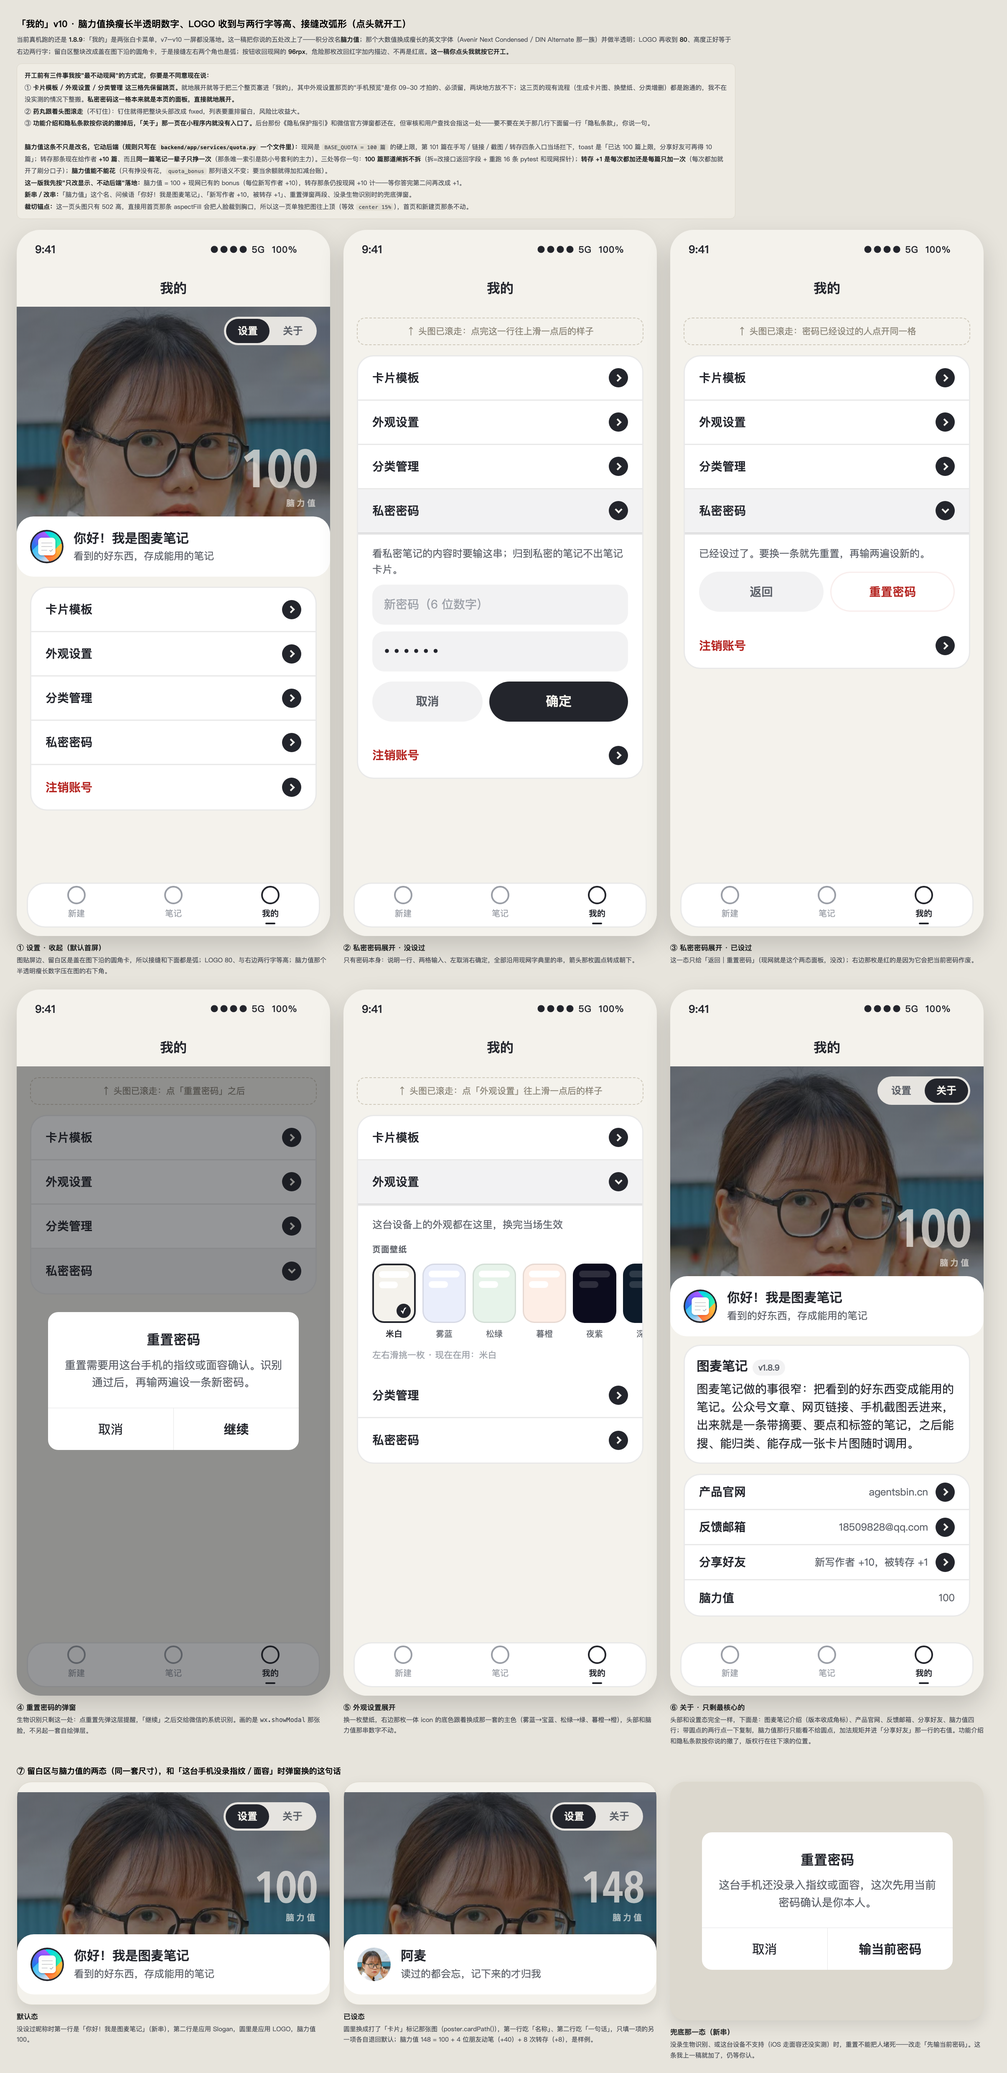
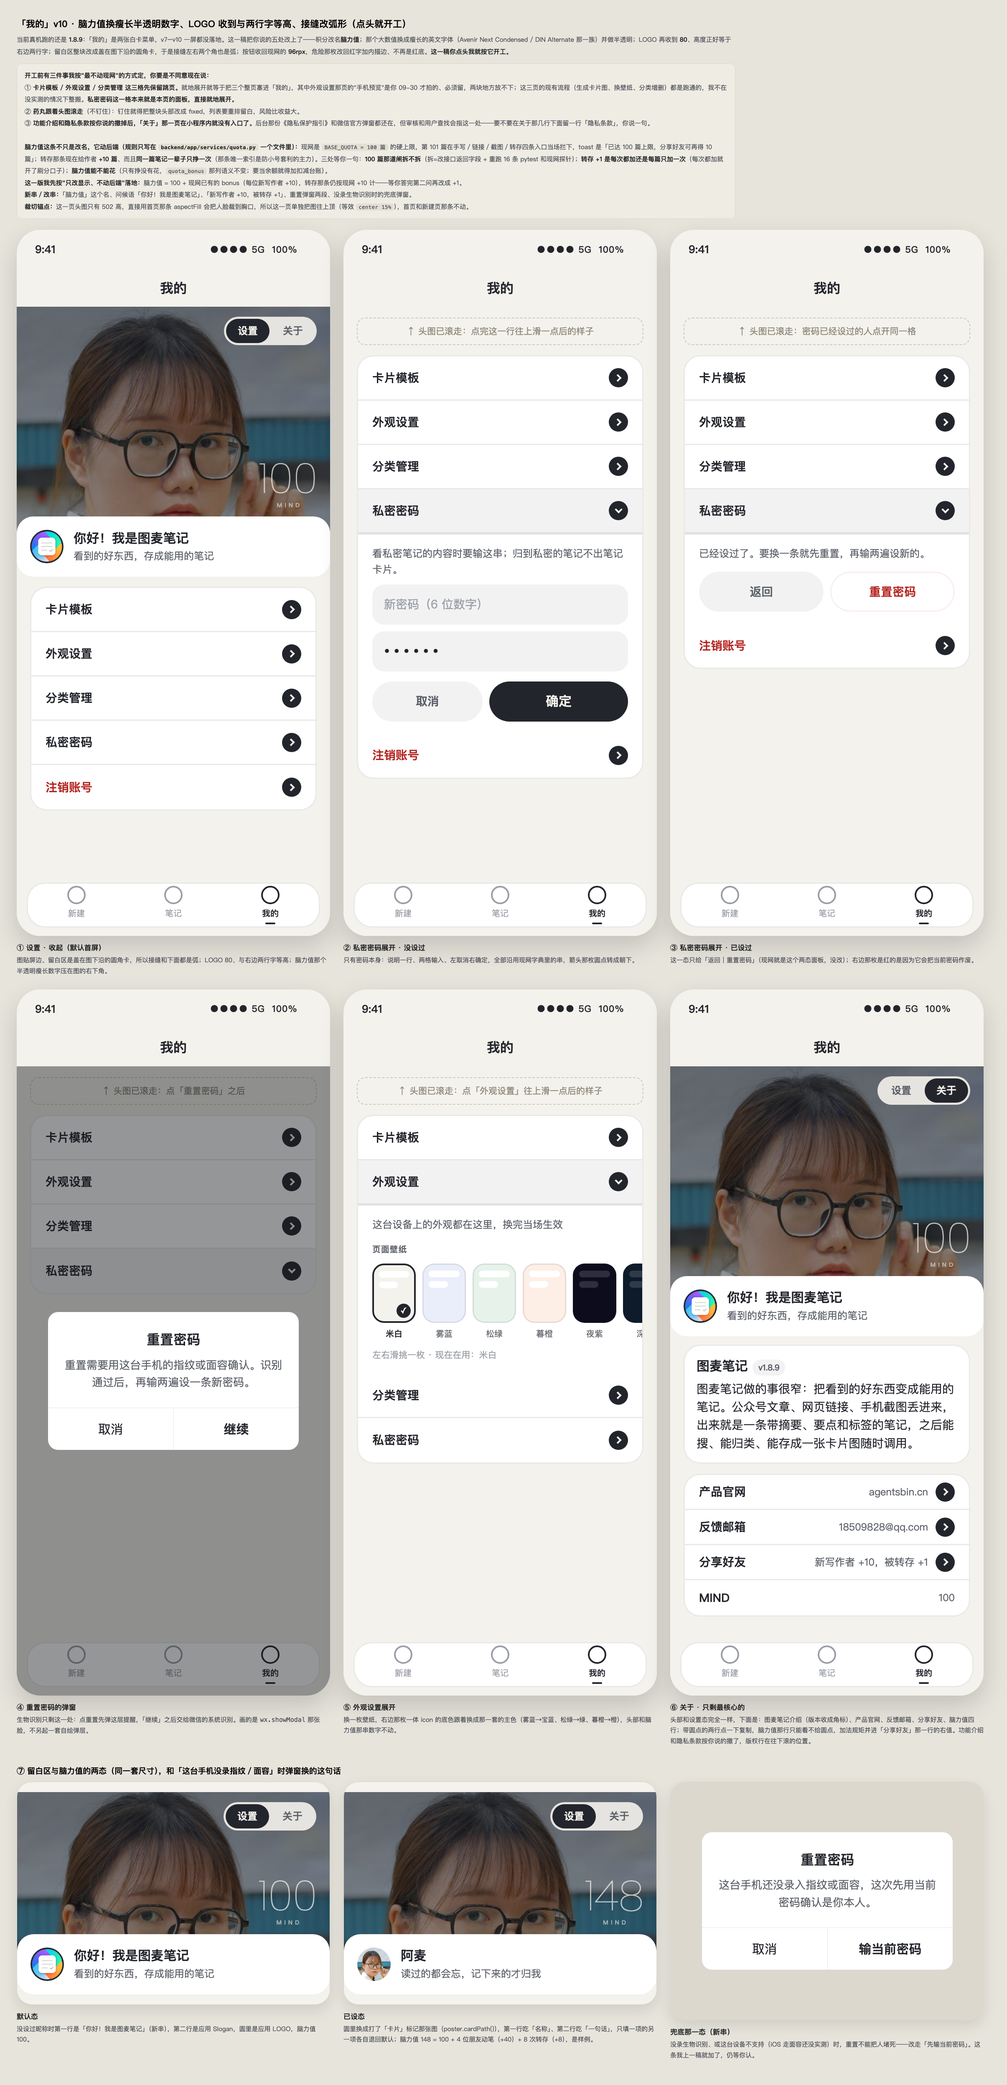
「我的」改版落地 1.9.0：Poppins Thin 的 MIND、留白卡贴屏边、40 条真跑全过
站长点了 G · Poppins Thin，数字收 80%（126→100）、英文字跟着收到最小一档字阶 18
并与数字居中对齐；标签按"英文显示"定成 MIND（中英文字典同一串）。字体只裁 0-9
base64 内嵌进 me.wxss，1.9KB，不占域名。

真跑量出两条坑并修掉：① .container 自带 24rpx 左右内边距，头部要贴屏边得自己顶出去，
而 margin 用 calc(0px - var(--sp-3)) 会让这份编译把整条 .head 规则丢掉、页面直接不渲染
（症状是 selectorQuery 全量 null），改回写死 -24rpx 并由尺子钉住"左右贴屏边"；
② 头图这一页不能沿用首页的 aspectFill，502 高的盒子会把人像裁到胸口，改成按图片真实
尺寸算锚点（1448 高、往上顶 136）。

新增 docs/工具/验-我的页改版-真跑.js 40 条：几何、字体与锚点、药丸两态、就地展开、
面板两态、关于四行、昵称替换。作废两条旧判据（行右边"未设置"文字、浮层面板+遮罩），
改判据而不是改代码迁就旧尺子；尺子自己负责 setup/teardown（进页前清 storage 造的昵称、
收尾原样还回去），否则上一轮跑崩会把下一轮的默认态判成不过。PRD 补 §8.80。

diff --git a/docs/工具/验-我的页改版-真跑.js b/docs/工具/验-我的页改版-真跑.js
@@ -1,0 +1,216 @@
+/** 「我的」改版这一屏的真跑尺子（v10 口径 + 站长 10-01 那五条）
+ *
+ *  跑法：先 `cli auto --project .../miniprogram --auto-port 9431`，等约 30 秒，再
+ *        NODE_PATH=/tmp/mpaauto/node_modules node docs/工具/验-我的页改版-真跑.js
+ *
+ *  作废的两条旧判据（别再改代码去迁就它们）：
+ *   ① 「私密密码那一行右边写着设没设」——这一版行右边只剩一枚一体 icon，状态不再用文字说；
+ *   ② 「点那一行浮出密码面板（.pwd-mask + 固定层 .pwd-sheet）」——面板改成就地展开，
+ *      浮层和遮罩整两层撤掉，这里改成钉"展开的内容长在列表里面"。
+ *
+ *  evaluate 跑在逻辑层，那里没有 document/window，所以计算样式一律走 element.style()。
+ */
+const automator = require('miniprogram-automator')
+const path = require('path')
+const fs = require('fs')
+
+const OUT = path.resolve(__dirname, '../design/我的-改版-实测')
+const APORT = 'ws://localhost:9431'
+const sleep = (ms) => new Promise((r) => setTimeout(r, ms))
+const bad = []
+const ck = (name, ok, got) => {
+  console.log(`${ok ? '✓' : '✗'} ${name}${got === undefined || got === '' ? '' : ' → ' + got}`)
+  if (!ok) bad.push(name)
+}
+const toRpx = (px, windowWidth) => (px * 750) / windowWidth
+
+const measure = (mp) => mp.evaluate(() => new Promise((resolve) => {
+  const q = wx.createSelectorQuery()
+  q.select('.head-band').boundingClientRect()
+  q.select('.sheet').boundingClientRect()
+  q.select('.sheet-logo').boundingClientRect()
+  q.select('.sheet-text').boundingClientRect()
+  q.select('.score').boundingClientRect()
+  q.select('.score-n').boundingClientRect()
+  q.select('.score-l').boundingClientRect()
+  q.select('.pill').boundingClientRect()
+  q.selectAll('.seg').boundingClientRect()
+  q.selectAll('.menu-item').boundingClientRect()
+  q.selectAll('.ico').boundingClientRect()
+  q.selectAll('.pwd-input').boundingClientRect()
+  q.selectAll('.pwd-btn').boundingClientRect()
+  q.select('.pwd-inline').boundingClientRect()
+  q.select('.menu-group').boundingClientRect()
+  q.select('.about-lead').boundingClientRect()
+  q.exec((res) => resolve({
+    band: res[0], sheet: res[1], logo: res[2], text: res[3],
+    score: res[4], num: res[5], lab: res[6], pill: res[7],
+    segs: res[8] || [], items: res[9] || [], icos: res[10] || [],
+    inputs: res[11] || [], btns: res[12] || [], inline: res[13],
+    group: res[14], aboutLead: res[15],
+    windowWidth: wx.getWindowInfo().windowWidth,
+  }))
+}))
+
+const styleOf = async (page, sel, props) => {
+  const el = await page.$(sel)
+  if (!el) return {}
+  const out = {}
+  for (const k of props) out[k] = await el.style(k)
+  return out
+}
+
+// 昵称/口号走的是 poster.readProfile()，所以往 storage 写真值再重进本页才是真链路。
+// 但这一页默认态那几条判据吃的是"没填过"，所以进页前先把这两个字段清掉、
+// 收尾再原样还回去——上一轮跑到一半崩了留下 '阿麦'，下一轮就会把默认态判成不过。
+const readProfileRaw = (mp) => mp.evaluate(() => JSON.stringify(wx.getStorageSync('poster_profile') || {}))
+const seedProfile = (mp, patch) => mp.evaluate((p) => {
+  wx.setStorageSync('poster_profile', Object.assign({}, wx.getStorageSync('poster_profile') || {}, p))
+  return JSON.stringify(wx.getStorageSync('poster_profile'))
+}, patch)
+const putProfile = (mp, json) => mp.evaluate((j) => {
+  wx.setStorageSync('poster_profile', JSON.parse(j))
+  return true
+}, json)
+
+const gotoMe = async (mp) => {
+  for (let i = 0; i < 5; i++) {
+    try {
+      await mp.switchTab('/pages/me/me')
+      await sleep(3000)
+      return await mp.currentPage()
+    } catch (e) { await sleep(2500) }
+  }
+  throw new Error('进不了 /pages/me/me')
+}
+
+;(async () => {
+  if (!fs.existsSync(OUT)) fs.mkdirSync(OUT, { recursive: true })
+  let mp
+  for (let i = 0; i < 6; i++) {
+    try { mp = await automator.connect({ wsEndpoint: APORT }); break }
+    catch (e) { await sleep(2000) }
+  }
+  if (!mp) { console.log('✗ 连不上 9431，先跑 cli auto'); process.exit(1) }
+
+  let page = await gotoMe(mp)
+  const originalProfile = await readProfileRaw(mp)
+  await seedProfile(mp, { name: '', slogan: '' })
+  await mp.switchTab('/pages/index/index')
+  await sleep(1200)
+  page = await gotoMe(mp)
+
+  /* ---------- ① 头部两块：底图 + 盖在它下沿的圆角留白卡 ---------- */
+  let m = await measure(mp)
+  const W = m.windowWidth
+  ck('底图这块盒子高 542（可见 502 + 被卡盖住 40）', Math.abs(toRpx(m.band.height, W) - 542) <= 3, toRpx(m.band.height, W).toFixed(1))
+  const overlap = m.band.bottom - m.sheet.top
+  ck('留白卡往上盖住底图 40 → 接缝左右两角是弧', Math.abs(toRpx(overlap, W) - 40) <= 3, toRpx(overlap, W).toFixed(1))
+  ck('留白卡左右贴屏边（不内缩）', m.sheet.left <= 1 && Math.abs(m.sheet.right - W) <= 1, `${m.sheet.left}/${m.sheet.right}`)
+  const sheetStyle = await styleOf(page, '.sheet', ['border-top-left-radius', 'background-color'])
+  ck('留白卡四角圆角 40', Math.abs(toRpx(parseFloat(sheetStyle['border-top-left-radius']), W) - 40) <= 2,
+    sheetStyle['border-top-left-radius'])
+  ck('留白卡底色不透明（深色壁纸下不会透出照片）', !/rgba/.test(sheetStyle['background-color'] || ''), sheetStyle['background-color'])
+
+  /* ---------- ② 圆 LOGO 80、整枚在留白区里、与右边两行字等高 ---------- */
+  ck('圆 LOGO 是 80 见方', Math.abs(toRpx(m.logo.width, W) - 80) <= 2 && Math.abs(toRpx(m.logo.height, W) - 80) <= 2,
+    `${toRpx(m.logo.width, W).toFixed(0)}×${toRpx(m.logo.height, W).toFixed(0)}`)
+  ck('LOGO 不再压着底图（整枚在留白卡里）', m.logo.top >= m.sheet.top - 1, `${m.logo.top} vs ${m.sheet.top}`)
+  ck('LOGO 高度 = 右边两行字的高度（±4）', Math.abs(toRpx(m.logo.height, W) - toRpx(m.text.height, W)) <= 4,
+    toRpx(m.text.height, W).toFixed(0))
+
+  /* ---------- ③ MIND 那个大数字：Poppins Thin、收 80%、英文字居中 ---------- */
+  const numStyle = await styleOf(page, '.score-n', ['font-family', 'font-size', 'font-weight', 'color'])
+  const labStyle = await styleOf(page, '.score-l', ['font-size', 'text-align', 'letter-spacing'])
+  ck('数字用内嵌的 WtsjMind（Poppins Thin 子集）', /WtsjMind/.test(numStyle['font-family'] || ''), numStyle['font-family'])
+  ck('数字字号收到 100（上一版 126 的八折）', Math.abs(toRpx(parseFloat(numStyle['font-size']), W) - 100) <= 2, numStyle['font-size'])
+  ck('数字是 100 号字重（Thin）', parseFloat(numStyle['font-weight']) <= 100, numStyle['font-weight'])
+  ck('数字保持半透明', /rgba\(242,\s*239,\s*233,\s*0?\.7/.test(numStyle.color || ''), numStyle.color)
+  ck('英文字收到最小一档字阶 18', Math.abs(toRpx(parseFloat(labStyle['font-size']), W) - 18) <= 1, labStyle['font-size'])
+  ck('英文字改成居中对齐', labStyle['text-align'] === 'center', labStyle['text-align'])
+  const cNum = m.num.left + m.num.width / 2
+  const cLab = m.lab.left + m.lab.width / 2
+  ck('英文字真的对到数字中间（±3rpx）', Math.abs(toRpx(cLab - cNum, W)) <= 3, `Δ${toRpx(cLab - cNum, W).toFixed(1)}`)
+  ck('数字整块没被留白卡盖住', m.score.bottom <= m.sheet.top + 2, `${m.score.bottom} vs ${m.sheet.top}`)
+  ck('数字在底图右下角以内', m.score.right <= m.band.right + 1 && m.score.bottom <= m.band.bottom + 1)
+
+  /* ---------- ④ 药丸：默认设置，切关于 ---------- */
+  let d = await page.data()
+  ck('药丸两枚：设置 / 关于', m.segs.length === 2, m.segs.length)
+  ck('药丸钉在底图右上（在 band 里）', m.pill.top >= m.band.top && m.pill.right <= m.band.right + 1)
+  ck('默认停在「设置」', d.tab === 'set', d.tab)
+  ck('没设过昵称时第一行是问候语', d.nameText === '你好！我是图麦笔记', d.nameText)
+  ck('第二行是应用 Slogan', d.sloganText === '看到的好东西，存成能用的笔记', d.sloganText)
+  ck('圆里是应用 LOGO（没设卡片头像时）', d.logoSrc === '/assets/logo.png', d.logoSrc)
+  ck('底图取的是首页那一个出口', /home-bg-portrait|USER_DATA_PATH/.test(d.bgSrc || ''), d.bgSrc)
+  ck('锚点算出来了：按宽铺满 1448 高、往上顶 136', /height:1448rpx/.test(d.imgStyle || '') && /top:-136rpx/.test(d.imgStyle || ''), d.imgStyle)
+  ck('数字来自服务端（base+bonus，不是界面写死）', /^\d+$/.test(String(d.scoreText || '')) && Number(d.scoreText) >= 100, d.scoreText)
+  ck('分享那行右值吃服务端 reward_each，单位不再写"篇"', /^\S+ \+\d+$/.test(String(d.shareValue || '')), d.shareValue)
+
+  /* ---------- ⑤ 设置那五条：一体 icon + 就地展开 ---------- */
+  const labels = []
+  for (const r of await page.$$('.menu-item')) labels.push((await r.text()).replace(/\s+/g, ''))
+  ck('设置态是五条：卡片模板/外观设置/分类管理/私密密码/注销账号',
+    labels.join('|') === '卡片模板|外观设置|分类管理|私密密码|注销账号', labels.join('|'))
+  ck('行高 106（不再是 118 那种大块头）', Math.abs(toRpx(m.items[0].height, W) - 106) <= 2, toRpx(m.items[0].height, W).toFixed(0))
+  ck('每行右边一枚 46 见方的圆点 icon', m.icos.length === 5 && Math.abs(toRpx(m.icos[0].width, W) - 46) <= 2,
+    `${m.icos.length}/${toRpx(m.icos[0].width, W).toFixed(0)}`)
+  ck('icon 是圆的（宽高相等）', Math.abs(m.icos[0].width - m.icos[0].height) <= 1)
+  ck('行里不再有"未设置"这类状态文字（旧判据作废）', !labels.some((x) => /未设置|密码已设置/.test(x)))
+
+  const iPwd = labels.findIndex((x) => x.indexOf('私密密码') === 0)
+  await (await (await page.$$('.menu-item'))[iPwd]).tap()
+  await sleep(1200)
+  d = await page.data()
+  m = await measure(mp)
+  ck('点那一行就地展开', d.pwdOpen === true && d.privateSet === true, `open=${d.pwdOpen} set=${d.privateSet}`)
+  ck('展开的内容长在列表里面，不是浮层',
+    !!m.inline && !!m.group && m.inline.top >= m.group.top && m.inline.bottom <= m.group.bottom + 1,
+    m.inline ? `${m.inline.top}~${m.inline.bottom} in ${m.group.top}~${m.group.bottom}` : '没有 .pwd-inline')
+  ck('这一版没有遮罩那一层', (await page.$$('.pwd-mask')).length === 0)
+  ck('已设过那一态不给输入格', m.inputs.length === 0, m.inputs.length)
+  const btnTexts = []
+  for (const b of await page.$$('.pwd-btn')) btnTexts.push(await b.text())
+  ck('已设过那一态一行两枚：返回 + 重置密码', btnTexts.join('|') === '返回|重置密码', btnTexts.join('|'))
+  ck('按钮高 96（与其他页面的 .pwd-btn 同值，没做成超大块）',
+    Math.abs(toRpx(m.btns[0].height, W) - 96) <= 2, toRpx(m.btns[0].height, W).toFixed(0))
+  const cvStyle = await styleOf(page, '.menu-item.open .ico .cv', ['transform'])
+  // rotate(45deg) 在计算样式里回的是 matrix(.707,.707,-.707,.707)，不是字面 45
+  const down = /matrix\(\s*0?\.707[^,]*,\s*0?\.707/.test(cvStyle.transform || '')
+  ck('展开那行的箭头转成朝下（rotate 45°，b 分量为正）', down, cvStyle.transform)
+  await mp.screenshot({ path: path.join(OUT, '01-设置-私密密码展开.png') })
+
+  /* ---------- ⑥ 关于：切过去之后内容直接长在头部下面 ---------- */
+  await (await (await page.$$('.seg'))[1]).tap()
+  await sleep(1200)
+  d = await page.data()
+  m = await measure(mp)
+  ck('切到关于', d.tab === 'about', d.tab)
+  ck('切走时展开着的面板收掉了', d.pwdOpen === false)
+  const aboutLabels = []
+  for (const r of await page.$$('.menu-item')) aboutLabels.push((await r.text()).replace(/\s+/g, ''))
+  // .text() 拿到的是一整行（标签 + 右值），所以按"以这几个字开头"判，不比全等
+  ck('关于只有四行：产品官网/反馈邮箱/分享好友/MIND',
+    aboutLabels.length === 4 && aboutLabels[0].indexOf('产品官网') === 0 &&
+    aboutLabels[1].indexOf('反馈邮箱') === 0 && aboutLabels[2].indexOf('分享好友') === 0 &&
+    aboutLabels[3].indexOf('MIND') === 0, aboutLabels.join('|'))
+  ck('脑力值那一行右边是服务端那个数', /MIND1\d\d/.test(aboutLabels[3] || ''), aboutLabels[3])
+  ck('介绍卡在最上面（紧跟留白卡，不分二级）', !!m.aboutLead && !!m.sheet && m.aboutLead.top <= m.sheet.bottom + 2)
+  ck('功能介绍和隐私条款不在这一页', !aboutLabels.some((x) => /功能|隐私/.test(x)))
+  await mp.screenshot({ path: path.join(OUT, '02-关于-四行.png') })
+
+  /* ---------- ⑦ 昵称/口号设过之后：头部换成用户的那两行 ---------- */
+  await seedProfile(mp, { name: '阿麦', slogan: '读过的都会忘，记下来的才归我' })
+  await mp.switchTab('/pages/index/index')
+  await sleep(1500)
+  page = await gotoMe(mp)
+  d = await page.data()
+  ck('第一行换成用户填的「名称」', d.nameText === '阿麦', d.nameText)
+  ck('第二行换成用户填的「一句话」', d.sloganText === '读过的都会忘，记下来的才归我', d.sloganText)
+  await mp.screenshot({ path: path.join(OUT, '03-头部-用户昵称与口号.png') })
+  await putProfile(mp, originalProfile)   // 复原：别把尺子造的昵称留在这台手机上
+
+  console.log(bad.length ? `\n✗ ${bad.length} 条不过：${bad.join('、')}` : '\n✓ 全过')
+  await mp.close()
+  process.exit(bad.length ? 1 : 0)
+})().catch((e) => { console.log('ERR', e && e.message); process.exit(1) })

diff --git a/docs/design/我的-脑力值与弧形接缝-v10-中文.html b/docs/design/我的-脑力值与弧形接缝-v10-中文.html
@@ -7,8 +7,8 @@
 /* ==================================================================
    v10 = v9 + 站长 10-01 凌晨这五条：
      ① 「积分」改名「脑力值」；
-     ② 那个大数值换英文字体（瘦长那一族：Avenir Next Condensed / DIN Alternate），
-        并改成半透明；
+     ② 大数值用 Poppins Thin 100（iPhone 时钟那种细圆长，只裁 0-9 内嵌 1.9KB），
+        半透明、比上一版收 8 成，下面那行英文字跟着缩小并与数字居中；
      ③ LOGO 再缩小，高度与右边两行文字一致（31×1.25 + 7 + 24×1.4 ≈ 80 → 圆 80）；
      ④ 留白区与底图之间那条缝，左右两个角要做成弧度（做法：图往下多铺 40，
         留白区整块用圆角卡盖在它上面，于是四个角都是弧、缝也是弧）；
@@ -66,12 +66,12 @@
   .seg.on{background:var(--ink);color:var(--paper)}
 
   /* ---------- ①② 脑力值：背景图右下角一个大数值 ---------- */
-  .score{position:absolute;right:30px;bottom:56px;z-index:4;text-align:right;
-    color:rgba(242,239,233,.72)}
-  .score b{display:block;font-family:var(--num);font-size:126px;font-weight:600;
-    letter-spacing:-2px;line-height:.82;font-variant-numeric:tabular-nums}
-  .score span{display:block;margin-top:10px;font-size:var(--fs-label);font-weight:700;
-    letter-spacing:5px;color:rgba(242,239,233,.66)}
[1 lines of base64/hex data omitted]
+  .score{position:absolute;right:30px;bottom:56px;z-index:4}
+  .score b{display:block;font-family:'WtsjMind','Poppins',sans-serif;font-size:100px;
+    font-weight:100;line-height:.86;color:rgba(242,239,233,.74)}
+  .score span{display:block;margin-top:10px;padding-left:6px;text-align:center;
+    font-size:var(--fs-micro);font-weight:700;letter-spacing:6px;color:rgba(242,239,233,.62)}
 
   /* ---------- ③ 留白区：圆 80 = 右边两行字的高度，缝的左右两角是弧 ---------- */
   .ident{position:relative;margin-top:-40px;height:144px;padding:0 32px;display:flex;
@@ -166,8 +166,8 @@
   .cmp{width:750px;background:var(--paper);border:1px solid #ddd8cc;border-radius:36px;overflow:hidden;
     box-shadow:0 14px 34px rgba(0,0,0,.10);padding:24px 0}
   .cmp .band{height:380px}
-  .cmp .score b{font-size:104px}
-  .cmp .score{bottom:64px}
+  .cmp .score b{font-size:100px}
+  .cmp .score{bottom:56px}
 </style>
 </head>
 <body>
@@ -199,7 +199,7 @@
       <div class="head-card">
         <div class="band"><div class="scrim"></div>
           <div class="pill"><div class="seg on">设置</div><div class="seg">关于</div></div>
-          <div class="score"><b>100</b><span>脑力值</span></div>
+          <div class="score"><b>100</b><span>MIND</span></div>
         </div>
         <div class="ident">
           <div class="av brand"></div>
@@ -360,7 +360,7 @@
       <div class="head-card">
         <div class="band"><div class="scrim"></div>
           <div class="pill"><div class="seg">设置</div><div class="seg on">关于</div></div>
-          <div class="score"><b>100</b><span>脑力值</span></div>
+          <div class="score"><b>100</b><span>MIND</span></div>
         </div>
         <div class="ident">
           <div class="av brand"></div>
@@ -378,7 +378,7 @@
         <div class="r"><span class="rn">产品官网</span><span class="rs"><span class="rv">agentsbin.cn</span><span class="ico"><i></i></span></span></div>
         <div class="r"><span class="rn">反馈邮箱</span><span class="rs"><span class="rv">18509828@qq.com</span><span class="ico"><i></i></span></span></div>
         <div class="r"><span class="rn">分享好友</span><span class="rs"><span class="rv">新写作者 +10，被转存 +1</span><span class="ico"><i></i></span></span></div>
-        <div class="r"><span class="rn">脑力值</span><span class="rs"><span class="rv">100</span></span></div>
+        <div class="r"><span class="rn">MIND</span><span class="rs"><span class="rv">100</span></span></div>
       </div>
       <div class="tabbar">
         <div class="ti"><div class="g"></div><div class="lb">新建</div></div>
@@ -401,7 +401,7 @@
     <div class="head-card">
       <div class="band"><div class="scrim"></div>
         <div class="pill"><div class="seg on">设置</div><div class="seg">关于</div></div>
-        <div class="score"><b>100</b><span>脑力值</span></div>
+        <div class="score"><b>100</b><span>MIND</span></div>
       </div>
       <div class="ident">
         <div class="av brand"></div>
@@ -420,7 +420,7 @@
     <div class="head-card">
       <div class="band"><div class="scrim"></div>
         <div class="pill"><div class="seg on">设置</div><div class="seg">关于</div></div>
-        <div class="score"><b>148</b><span>脑力值</span></div>
+        <div class="score"><b>148</b><span>MIND</span></div>
       </div>
       <div class="ident">
         <div class="av" style="background-image:url('../../miniprogram/assets/home-bg-portrait.jpg')"></div>

diff --git a/miniprogram/utils/i18n.js b/miniprogram/utils/i18n.js
@@ -132,7 +132,7 @@ const i18n = {
     pillSettings: '设置',
     pillAbout: '关于',
     meGreeting: '你好！我是图麦笔记',
-    brainScore: '脑力值',
+    brainScore: 'MIND',
     officialSite: '产品官网',
     resetWithBioTitle: '重置密码',
     resetWithBioBody: '重置需要用这台手机的指纹或面容确认。识别通过后，再输两遍设一条新密码。',
@@ -390,7 +390,7 @@ const i18n = {
     pillSettings: 'Settings',
     pillAbout: 'About',
     meGreeting: 'Hi, I am TuMaiBiJi',
-    brainScore: 'Brain score',
+    brainScore: 'MIND',
     officialSite: 'Website',
     resetWithBioTitle: 'Reset password',
     resetWithBioBody: 'Resetting needs your fingerprint or face. Once it passes, type the new code twice.',
